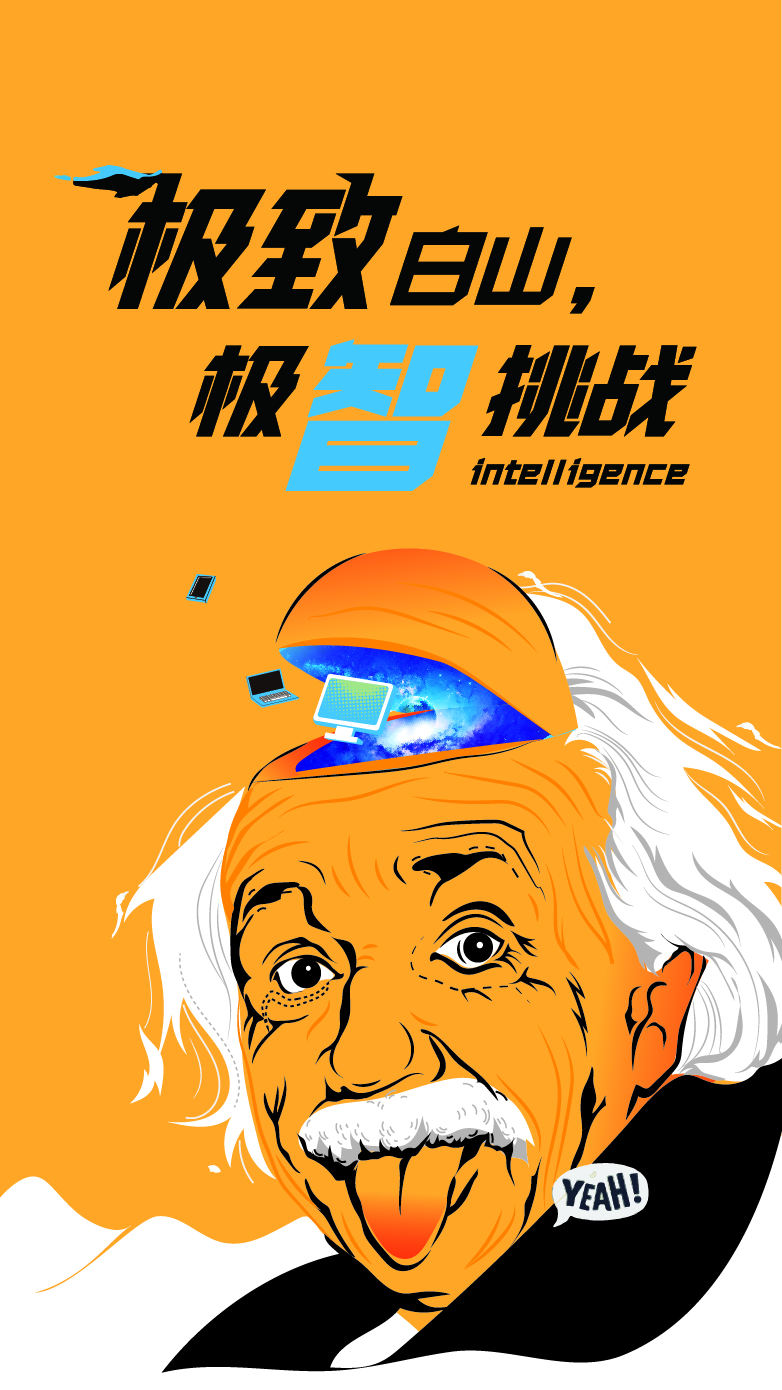
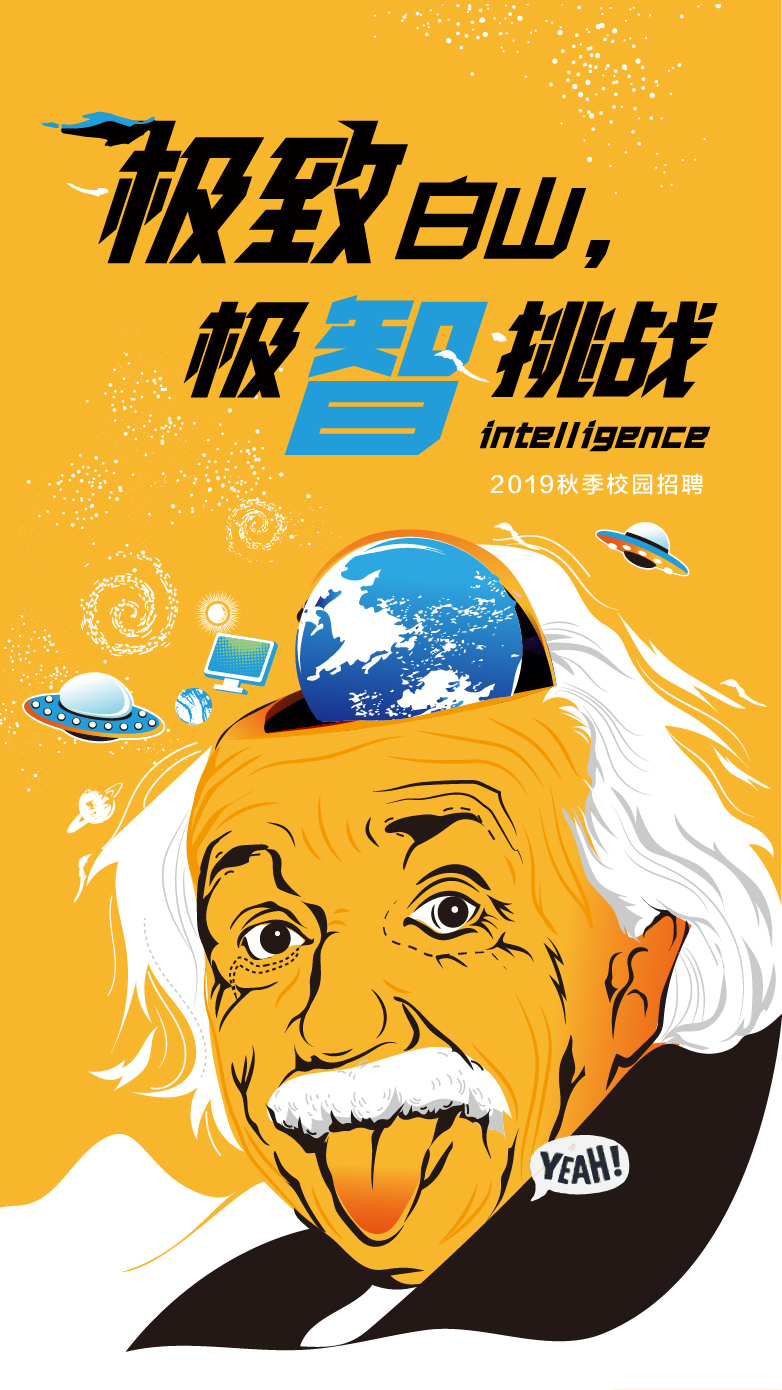
replace head img

diff --git a/job/index.html b/job/index.html
@@ -1141,14 +1141,14 @@ title:
                 </div>
             </div>
         </section>
-
+        <!-- test -->
         <section style="display:none"  class="content">
           <div id="myCarousel" class="carousel slide">
-            <!-- <ol class="carousel-indicators">
+            <ol class="carousel-indicators">
               <li data-target="#myCarousel" data-slide-to="0" class="active"></li>
               <li data-target="#myCarousel" data-slide-to="1"></li>
               <li data-target="#myCarousel" data-slide-to="2"></li>
-            </ol>    -->
+            </ol>   
             <div class="carousel-inner">
                 <div class="item active">
                     <img src="" alt="First slide">
